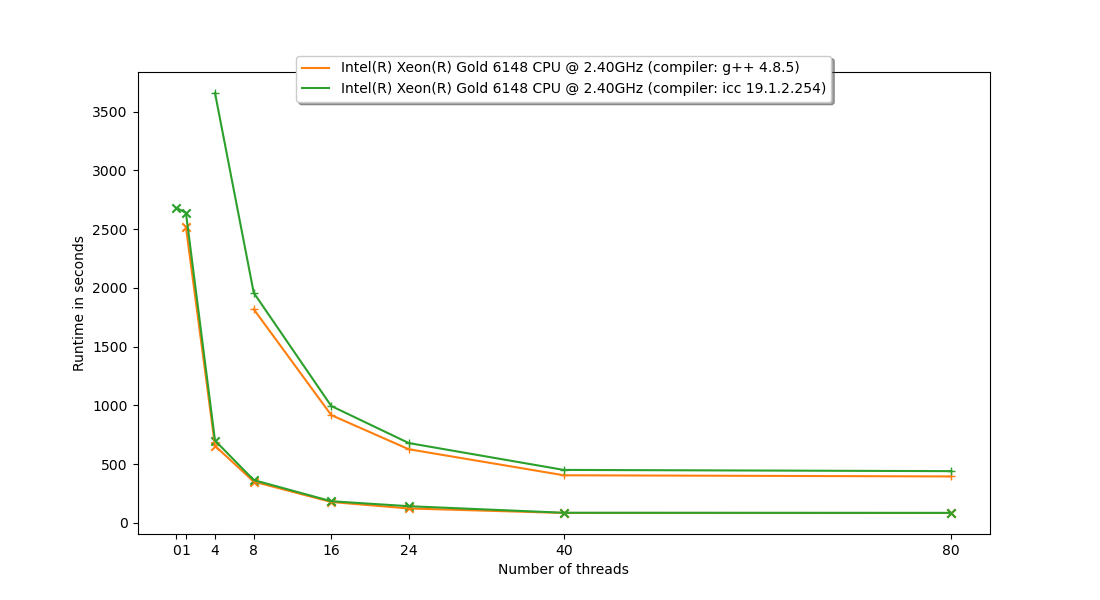
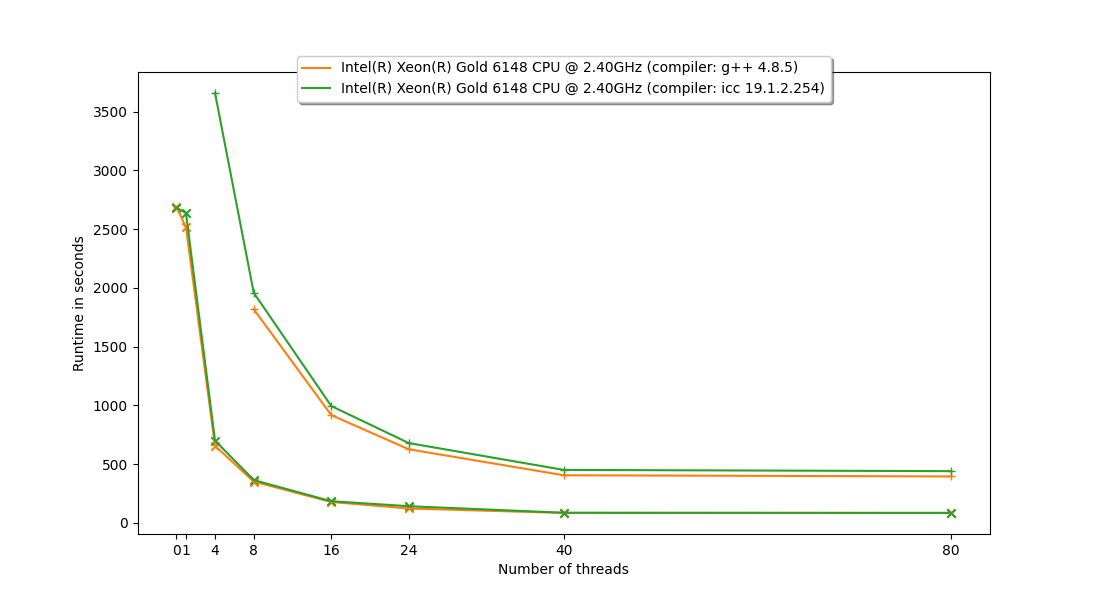
Add more results.

diff --git a/README.md b/README.md
@@ -36,6 +36,7 @@ The code produces an 2048x2048 image as follows:
 | Intel(R) Xeon(R) Gold 6148 CPU @ 2.40GHz | Q1 2018 | OpenMP with 8 threads | 352 | 1819  | g++ 4.8.5 |
 | Intel(R) Xeon(R) Gold 6148 CPU @ 2.40GHz | Q1 2018 | OpenMP with 4 threads | 657 |  | g++ 4.8.5 |
 | Intel(R) Xeon(R) Gold 6148 CPU @ 2.40GHz | Q1 2018 | OpenMP with 1 thread | 2518 |  | g++ 4.8.5 |
+| Intel(R) Xeon(R) Gold 6148 CPU @ 2.40GHz | Q1 2018 | none | 2692 |  | g++ 4.8.5 |
 | Intel(R) Xeon(R) Gold 6148 CPU @ 2.40GHz | Q1 2018 | OpenMP with 80 threads | 86 | 441  | icc 19.1.2.254 |
 | Intel(R) Xeon(R) Gold 6148 CPU @ 2.40GHz | Q1 2018 | OpenMP with 40 threads | 87 | 452  | icc 19.1.2.254 |
 | Intel(R) Xeon(R) Gold 6148 CPU @ 2.40GHz | Q1 2018 | OpenMP with 24 threads | 143 | 680  | icc 19.1.2.254 |
